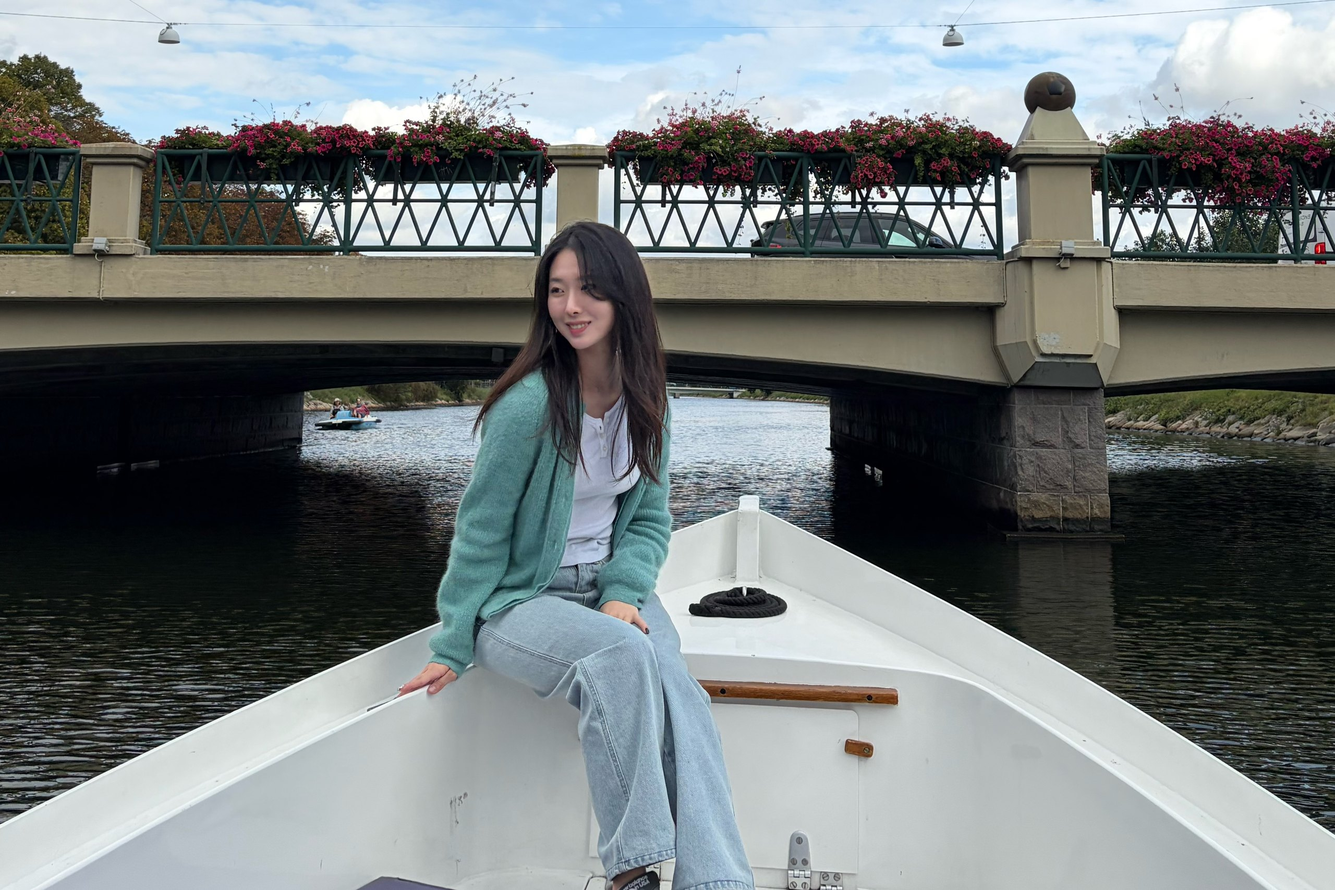
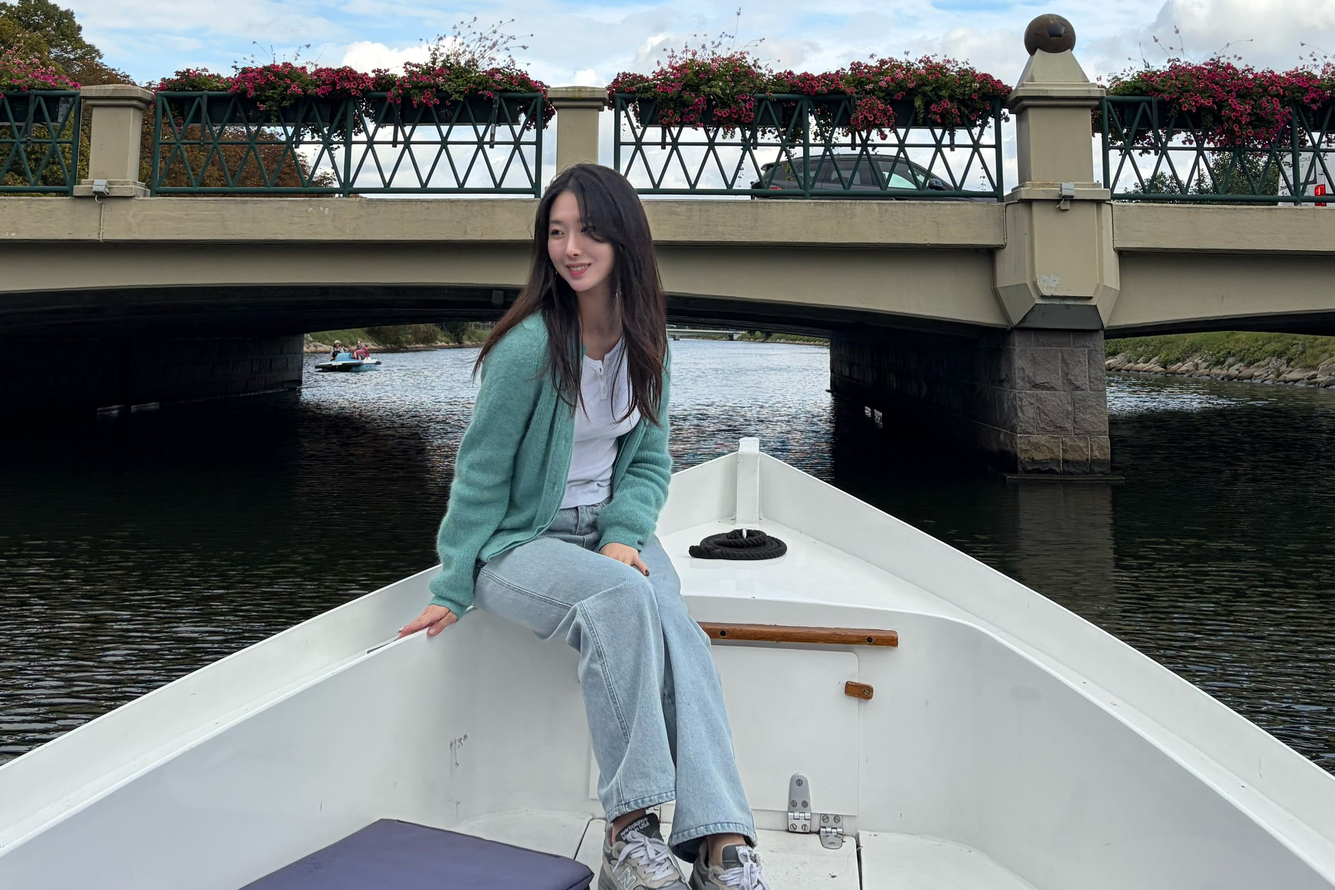
Reorder sections, compact About, tighten hero, rename department
- Move the resume section below Publications and title it
  "Experience & Education" (nav: "Experience")
- About: smaller heading and photo, link boxes three per row
- Hero: 50vh tall with less sky above the bridge, dark text shadow on
  the greeting so it reads over the flowers and clouds
- AI Graduate School -> Department of AI in the bio, degree and address

diff --git a/index.html b/index.html
@@ -53,8 +53,8 @@
           <li><a class="nav-link scrollto active" href="#hero">Home</a></li>
           <li><a class="nav-link scrollto" href="#about">About</a></li>
           <li><a class="nav-link scrollto" href="#services">Research Interests</a></li>
-          <li><a class="nav-link scrollto" href="#resume">Resume</a></li>
           <li><a class="nav-link scrollto" href="#portfolio">Publications</a></li>
+          <li><a class="nav-link scrollto" href="#resume">Experience</a></li>
           <li><a class="nav-link scrollto" href="#awards">Honors & Awards</a></li>
           <!-- <li class="dropdown"><a href="#"><span>Drop Down</span> <i class="bi bi-chevron-down"></i></a>
             <ul>
@@ -88,13 +88,13 @@
       <div class="container">
 
         <div class="row no-gutters">
-          <div class="image col-xl-3 d-flex align-items-stretch justify-content-center justify-content-lg-start"></div>
-          <div class="col-xl-9 ps-0 ps-lg-5 pe-lg-1 d-flex align-items-stretch">
+          <div class="image col-xl-2 d-flex align-items-stretch justify-content-center justify-content-lg-start"></div>
+          <div class="col-xl-10 ps-0 ps-lg-4 pe-lg-1 d-flex align-items-stretch">
             <div class="content d-flex flex-column justify-content-center">
-              <h3>PhD candidate in AI Graduate School
+              <h3>PhD candidate in the Department of AI
               </h3>
               <p>
-                I am a Ph.D. candidate at the AI Graduate School, GIST, advised by Prof. Hae-Gon Jeon.
+                I am a Ph.D. candidate in the Department of AI, GIST, advised by Prof. Hae-Gon Jeon.
                 I am currently conducting my research at Yonsei University, South Korea.
               </p>
               <p>
@@ -104,7 +104,7 @@
                 digital twins, human-robot interaction, and real-world robot deployment.
               </p>
               <div class="row">
-                <div class="col-md-6 d-md-flex align-items-md-stretch">
+                <div class="col-md-4 d-md-flex align-items-md-stretch">
                   <div class="count-box">
                     <i class="bi bi-mortarboard-fill align-icon"></i>
                     <!-- <i class="bi bi bi-mortarboard-fill align-icon"></i> -->
@@ -113,7 +113,7 @@
                   </div>
                 </div>
 
-              <div class="col-md-6 d-md-flex align-items-md-stretch">
+              <div class="col-md-4 d-md-flex align-items-md-stretch">
                 <div class="count-box">
                   <i class="bi bi-github align-icon"></i>
                     <!-- <span data-purecounter-start="0" data-purecounter-end="85" data-purecounter-duration="1" class="purecounter"></span> -->
@@ -121,21 +121,21 @@
                 </div>
               </div>
 
-                <div class="col-md-6 d-md-flex align-items-md-stretch">
+                <div class="col-md-4 d-md-flex align-items-md-stretch">
                   <div class="count-box">
                     <i class="bi bi-mailbox2-flag align-icon"></i>
                     <p><a href="javascript:mailto();"><strong>jsshin98@gm.gist.ac.kr</strong></a></p>
                   </div>
                 </div>
 
-                <div class="col-md-6 d-md-flex align-items-md-stretch">
+                <div class="col-md-4 d-md-flex align-items-md-stretch">
                   <div class="count-box">
                     <i class="bi bi-google"></i>
                     <p><a href="https://scholar.google.com/citations?user=lJuBuBgAAAAJ&hl=en" title="Go to the page" target="_blank"><strong>Google Scholar</strong></a></p>
                   </div>
                 </div>
 
-                <div class="col-md-6 d-md-flex align-items-md-stretch">
+                <div class="col-md-4 d-md-flex align-items-md-stretch">
                   <div class="count-box">
                     <i class="bi bi-linkedin"></i>
                     <p><a href="https://www.linkedin.com/in/jisu-shin-0793842b7/" title="Go to the page" target="_blank"><strong>Linkedin</strong></a></p>
@@ -247,84 +247,6 @@
     </section> -->
     <!-- End Skills Section -->
 
-    <!-- ======= Resume Section ======= -->
-    <section id="resume" class="resume section-bg">
-      <div class="container">
-
-        <div class="section-title">
-          <h2>Resume</h2>
-          <!-- <p>My resume</p> -->
-        </div>
-
-        <div class="row">
-          <div class="col-lg-6">
-            <h3 class="resume-title">Research Experience</h3>
-            <!-- <div class="resume-item">
-              <h4>Senior graphic design specialist</h4>
-              <h5>2019 - Present</h5>
-              <p><em>Experion, New York, NY </em></p>
-              <p>
-              <ul>
-                <li>Lead in the design, development, and implementation of the graphic, layout, and production communication materials</li>
-                <li>Delegate tasks to the 7 members of the design team and provide counsel on all aspects of the project. </li>
-                <li>Supervise the assessment of all graphic materials in order to ensure quality and accuracy of the design</li>
-                <li>Oversee the efficient use of production project budgets ranging from $2,000 - $25,000</li>
-              </ul>
-              </p>
-            </div> -->
-            <div class="resume-item">
-              <h4>Research Intern</h4>
-              <h5>Dec. 2024 - Sep. 2025</h5>
-              <p><em> 3D Vision Team, Huawei Noah's Ark Lab, United Kingdom</em></p>
-              <p>
-              <ul>
-                <li>3D Scene Reconstruction using Gaussian Splatting on Appearance Varying Environment</li>
-              </ul>
-              </p>
-            </div>
-            <div class="resume-item">
-              <h4>Research Intern</h4>
-              <h5>Jun. 2023 - March. 2024</h5>
-              <p><em> KETI (Korea Electronics Technology Institute), Gyeonggi-do, South Korea</em></p>
-              <p>
-              <ul>
-                <li>Drivable 3D Human Generation</li>
-              </ul>
-              </p>
-            </div>
-            <div class="resume-item">
-              <h4>Research Intern</h4>
-              <h5>Jun. 2019 - Aug. 2019</h5>
-              <p><em> ETRI (Electronics and Telecommunications Research Institute), Daejeon, South Korea</em></p>
-              <p>
-              <ul>
-                <li>Edge Computing & Computer Network</li>
-              </ul>
-              </p>
-            </div>
-          </div>
-          
-          <div class="col-lg-6">
-          
-            <h3 class="resume-title">Education</h3>
-            <div class="resume-item">
-              <h4>PhD of AI Graduate School</h4>
-              <h5>2021 - Present</h5>
-              <p><em>Gwangju Institute of Science and Technology, Gwangju, South Korea</em></p>
-              <p>Advisor: Prof. Hae-Gon Jeon</p>
-            </div>
-            <div class="resume-item">
-              <h4>Bachelor of Electrical Engineering and Computer Science</h4>
-              <h5>2017 - 2021</h5>
-              <p><em>Gwangju Institute of Science and Technology, Gwangju, South Korea</em></p>
-              <p>Advisor: Prof. Hae-Gon Jeon</p>
-            </div>
-          </div>
-          
-        </div>
-
-      </div>
-    </section><!-- End Resume Section -->
 
     <!-- ======= Portfolio Section ======= -->
     <section id="portfolio" class="portfolio section-bg">
@@ -700,6 +622,85 @@
       </div>
     </section><!-- End Portfolio Section -->
 
+    <!-- ======= Resume Section ======= -->
+    <section id="resume" class="resume section-bg">
+      <div class="container">
+
+        <div class="section-title">
+          <h2>Experience &amp; Education</h2>
+          <!-- <p>My resume</p> -->
+        </div>
+
+        <div class="row">
+          <div class="col-lg-6">
+            <h3 class="resume-title">Research Experience</h3>
+            <!-- <div class="resume-item">
+              <h4>Senior graphic design specialist</h4>
+              <h5>2019 - Present</h5>
+              <p><em>Experion, New York, NY </em></p>
+              <p>
+              <ul>
+                <li>Lead in the design, development, and implementation of the graphic, layout, and production communication materials</li>
+                <li>Delegate tasks to the 7 members of the design team and provide counsel on all aspects of the project. </li>
+                <li>Supervise the assessment of all graphic materials in order to ensure quality and accuracy of the design</li>
+                <li>Oversee the efficient use of production project budgets ranging from $2,000 - $25,000</li>
+              </ul>
+              </p>
+            </div> -->
+            <div class="resume-item">
+              <h4>Research Intern</h4>
+              <h5>Dec. 2024 - Sep. 2025</h5>
+              <p><em> 3D Vision Team, Huawei Noah's Ark Lab, United Kingdom</em></p>
+              <p>
+              <ul>
+                <li>3D Scene Reconstruction using Gaussian Splatting on Appearance Varying Environment</li>
+              </ul>
+              </p>
+            </div>
+            <div class="resume-item">
+              <h4>Research Intern</h4>
+              <h5>Jun. 2023 - March. 2024</h5>
+              <p><em> KETI (Korea Electronics Technology Institute), Gyeonggi-do, South Korea</em></p>
+              <p>
+              <ul>
+                <li>Drivable 3D Human Generation</li>
+              </ul>
+              </p>
+            </div>
+            <div class="resume-item">
+              <h4>Research Intern</h4>
+              <h5>Jun. 2019 - Aug. 2019</h5>
+              <p><em> ETRI (Electronics and Telecommunications Research Institute), Daejeon, South Korea</em></p>
+              <p>
+              <ul>
+                <li>Edge Computing & Computer Network</li>
+              </ul>
+              </p>
+            </div>
+          </div>
+          
+          <div class="col-lg-6">
+          
+            <h3 class="resume-title">Education</h3>
+            <div class="resume-item">
+              <h4>PhD, Department of AI</h4>
+              <h5>2021 - Present</h5>
+              <p><em>Gwangju Institute of Science and Technology, Gwangju, South Korea</em></p>
+              <p>Advisor: Prof. Hae-Gon Jeon</p>
+            </div>
+            <div class="resume-item">
+              <h4>Bachelor of Electrical Engineering and Computer Science</h4>
+              <h5>2017 - 2021</h5>
+              <p><em>Gwangju Institute of Science and Technology, Gwangju, South Korea</em></p>
+              <p>Advisor: Prof. Hae-Gon Jeon</p>
+            </div>
+          </div>
+          
+        </div>
+
+      </div>
+    </section><!-- End Resume Section -->
+
     <!-- ======= Honors & Awards Section ======= -->
     <section id="awards" class="awards section-bg">
       <div class="container">
@@ -886,7 +887,7 @@
   <footer id="footer">
     <div class="container">
       <h3>Jisu Shin</h3>
-      <p>AI Graduate School, Gwangju Institute of Science and Technology, South Korea</p>
+      <p>Department of AI, Gwangju Institute of Science and Technology, South Korea</p>
       <div class="social-links">
         <a href="#" class="footer-home"><svg xmlns="http://www.w3.org/2000/svg" style="vertical-align: -0.175em;" width="2.125em" height="2em" viewBox="0 0 24 24"><path d="M21.743 12.331l-9-10c-.379-.422-1.107-.422-1.486 0l-9 10a.998.998 0 0 0-.17 1.076c.16.361.518.593.913.593h2v7a1 1 0 0 0 1 1h3a1 1 0 0 0 1-1v-4h4v4a1 1 0 0 0 1 1h3a1 1 0 0 0 1-1v-7h2a.998.998 0 0 0 .743-1.669z" fill="currentColor"/></svg>
         <!-- <a href="https://ihbae.com/cv/inhwanbae_personal_cv.pdf" target="_blank" class="footer-cv"><svg xmlns="http://www.w3.org/2000/svg" aria-hidden="true" role="img" style="vertical-align: -0.125em;" width="0.875em" height="1em" preserveAspectRatio="xMidYMid meet" viewBox="0 0 16 16"><path fill="currentColor" d="M9.293 0H4a2 2 0 0 0-2 2v12a2 2 0 0 0 2 2h8a2 2 0 0 0 2-2V4.707A1 1 0 0 0 13.707 4L10 .293A1 1 0 0 0 9.293 0zM9.5 3.5v-2l3 3h-2a1 1 0 0 1-1-1zM4.5 9a.5.5 0 0 1 0-1h7a.5.5 0 0 1 0 1h-7zM4 10.5a.5.5 0 0 1 .5-.5h7a.5.5 0 0 1 0 1h-7a.5.5 0 0 1-.5-.5zm.5 2.5a.5.5 0 0 1 0-1h4a.5.5 0 0 1 0 1h-4z"></path></svg></a> -->

diff --git a/assets/css/style.css b/assets/css/style.css
@@ -330,11 +330,11 @@ h6 {
 --------------------------------------------------------------*/
 #hero {
   width: 100%;
-  min-height: 65vh;
-  background: url("../img/bg_sweden.jpg") center center;
+  min-height: 50vh;
+  background: url("../img/bg_sweden.jpg") center top;
   background-size: cover;
   background-repeat: no-repeat;
-  padding: 0 0 35vh;
+  padding: 0 0 25vh;
 }
 
 #hero h1 {
@@ -343,7 +343,7 @@ h6 {
   font-weight: 700;
   line-height: 56px;
   color: #fff;
-  text-shadow: 0 2px 12px rgba(0, 0, 0, 0.55);
+  text-shadow: 0 2px 6px rgba(0, 0, 0, 0.9), 0 0 24px rgba(0, 0, 0, 0.7);
 }
 
 #hero h2 {
@@ -352,7 +352,7 @@ h6 {
   font-size: 24px;
   font-weight: 300;
   font-family: "Poppins", sans-serif;
-  text-shadow: 0 2px 10px rgba(0, 0, 0, 0.55);
+  text-shadow: 0 1px 5px rgba(0, 0, 0, 0.9), 0 0 18px rgba(0, 0, 0, 0.7);
 }
 
 #hero .btn-get-started {
@@ -484,12 +484,12 @@ section {
 # About
 --------------------------------------------------------------*/
 .about .content {
-  padding: 30px 0;
+  padding: 10px 0;
 }
 
 .about .content h3 {
   font-weight: 500;
-  font-size: 34px;
+  font-size: 24px;
   color: #2c4964;
 }
 
@@ -498,13 +498,13 @@ section {
 }
 
 .about .content .count-box {
-  padding: 20px 0;
+  padding: 8px 0;
   width: 100%;
 }
 
 .about .content .count-box i {
   display: block;
-  font-size: 36px;
+  font-size: 26px;
   color: #eeafca;
   float: left;
   line-height: 0;
@@ -521,8 +521,8 @@ section {
 }
 
 .about .content .count-box p {
-  padding: 15px 0 0 0;
-  margin: 0 0 0 50px;
+  padding: 6px 0 0 0;
+  margin: 0 0 0 38px;
   font-family: "Playfair Display", serif;
   font-size: 14px;
   color: #437099;
@@ -531,9 +531,9 @@ section {
 .about .content .count-box a {
   font-weight: 600;
   display: block;
-  margin-top: 20px;
+  margin-top: 6px;
   color: #437099;
-  font-size: 15px;
+  font-size: 14px;
   font-family: "Poppins", sans-serif;
   transition: ease-in-out 0.3s;
 }
@@ -543,9 +543,9 @@ section {
 }
 
 .about .image {
-  background: url("../img/me.jpg") center center no-repeat;
+  background: url("../img/me.jpg") center top no-repeat;
   background-size: cover;
-  max-width: 25%;
+  max-width: 18%;
 }
 
 /*--------------------------------------------------------------
